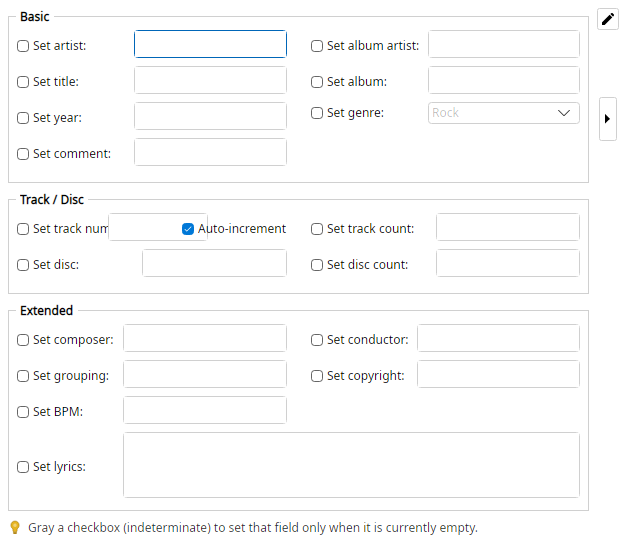
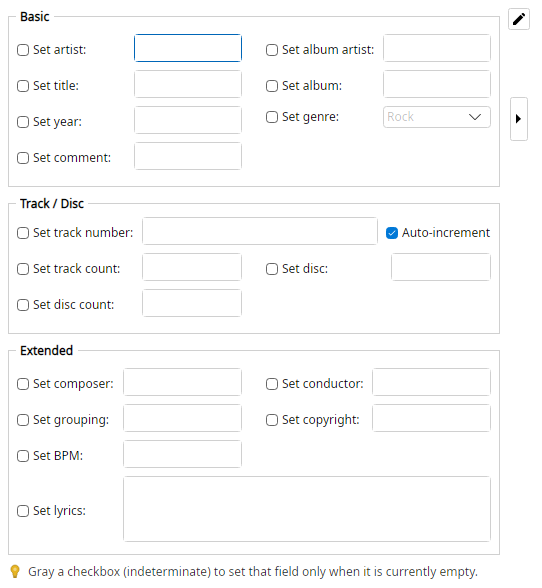
Fix Audio Tag Setter track row crushing Auto-increment.
Lay out the track number + Auto-increment controls on a full-width row
instead of a half-column, update tests, and recapture the help screenshot.

diff --git a/help/filters/audio/AudioTagSetter.html b/help/filters/audio/AudioTagSetter.html
@@ -17,7 +17,7 @@
     <hr />
     <h1>Audio Tag Setter</h1>
     <figure class="screenshot">
-      <img src="../../images/AudioTagSetter.png" alt="Audio Tag Setter options" width="631" height="544" />
+      <img src="../../images/AudioTagSetter.png" alt="Audio Tag Setter options" width="542" height="588" />
       <figcaption>Filter options.</figcaption>
     </figure>
         <p>Sets common embedded audio-tag fields on each file in one step. Values update the preview tags; Apply writes them to the files.</p>

diff --git a/Mfr.Tests/Ui/FilterEditors/Audio/AudioTagSetterFilterEditorViewTests.cs b/Mfr.Tests/Ui/FilterEditors/Audio/AudioTagSetterFilterEditorViewTests.cs
@@ -122,6 +122,42 @@ namespace Mfr.Tests.Ui.FilterEditors.Audio
         }
 
         /// <summary>
+        /// Verifies track value + Auto-increment stay usable on a full-width row (not crushed in a half column).
+        /// </summary>
+        [AvaloniaFact]
+        public void Audio_tag_setter_track_auto_increment_does_not_crush_value_field()
+        {
+            var (window, mainViewModel, editorView) = FilterEditorTestUi.ShowFilterEditorPanes();
+            mainViewModel.FilterChainViewModel.AppendCommand.Execute(FilterChainTestUi.Entry("AudioTagSetter"));
+            window.UpdateLayout();
+            Dispatcher.UIThread.RunJobs();
+
+            var editor = editorView.GetVisualDescendants().OfType<AudioTagSetterFilterEditorView>().Single();
+            var trackEditor = _FindVisibleFieldFormatEditor(editor, AudioTagSetterFieldKind.Track);
+            var autoInc = editor
+                .GetVisualDescendants()
+                .OfType<CompactCheckBox>()
+                .Single(box =>
+                    box.IsVisible && (box.Tag as string) == AudioTagSetterFieldRowViewModel.AutoIncrementTag
+                );
+            var trackCheck = _FindFieldCheckBox(editor, AudioTagSetterFieldKind.Track);
+
+            Assert.True(autoInc.IsChecked);
+            Assert.True(trackEditor.Bounds.Width >= 100, $"track editor width {trackEditor.Bounds.Width}");
+            var trackLabel = trackCheck
+                .GetVisualDescendants()
+                .OfType<TextBlock>()
+                .Single(block => block.Text == "Set track number:");
+            Assert.Equal("Set track number:", trackLabel.Text);
+
+            var trackRight = _LeftInEditor(editor, trackEditor) + trackEditor.Bounds.Width;
+            var autoIncLeft = _LeftInEditor(editor, autoInc);
+            Assert.True(autoIncLeft >= trackRight - 1, $"auto-inc left {autoIncLeft} vs track right {trackRight}");
+
+            window.Close();
+        }
+
+        /// <summary>
         /// Verifies clicking a field label toggles that row’s three-state checkbox.
         /// </summary>
         [AvaloniaFact]

diff --git a/Mfr.App.Ui/ViewModels/FilterEditors/Audio/AudioTagSetterFieldSectionViewModel.cs b/Mfr.App.Ui/ViewModels/FilterEditors/Audio/AudioTagSetterFieldSectionViewModel.cs
@@ -11,22 +11,32 @@ namespace Mfr.App.Ui.ViewModels.FilterEditors.Audio
     )
     {
         /// <summary>
-        /// Gets single-line / combo rows laid out in two columns.
+        /// Gets single-line / combo rows that fit the two-column compact grid (no auto-increment chrome).
         /// </summary>
         public IReadOnlyList<AudioTagSetterFieldRowViewModel> CompactRows { get; } =
-        [.. Rows.Where(row => !row.Multiline)];
+        [.. Rows.Where(row => !row.Multiline && !row.ShowsAutoIncrement)];
+
+        /// <summary>
+        /// Gets single-line rows that need the full fieldset width (track + auto-increment).
+        /// </summary>
+        /// <remarks>
+        /// Kept out of the half-width two-column grid so the value editor is not crushed beside
+        /// <c>Auto-increment</c>.
+        /// </remarks>
+        public IReadOnlyList<AudioTagSetterFieldRowViewModel> WideCompactRows { get; } =
+        [.. Rows.Where(row => !row.Multiline && row.ShowsAutoIncrement)];
 
         /// <summary>
         /// Gets the left column of compact rows (even indexes).
         /// </summary>
         public IReadOnlyList<AudioTagSetterFieldRowViewModel> LeftCompactRows { get; } =
-        [.. Rows.Where(row => !row.Multiline).Where((_, index) => index % 2 == 0)];
+        [.. Rows.Where(row => !row.Multiline && !row.ShowsAutoIncrement).Where((_, index) => index % 2 == 0)];
 
         /// <summary>
         /// Gets the right column of compact rows (odd indexes).
         /// </summary>
         public IReadOnlyList<AudioTagSetterFieldRowViewModel> RightCompactRows { get; } =
-        [.. Rows.Where(row => !row.Multiline).Where((_, index) => index % 2 == 1)];
+        [.. Rows.Where(row => !row.Multiline && !row.ShowsAutoIncrement).Where((_, index) => index % 2 == 1)];
 
         /// <summary>
         /// Gets full-width rows (lyrics) below the two-column grid.

diff --git a/Mfr.Tests/Ui/FilterEditors/Audio/AudioTagSetterFilterEditorViewModelTests.cs b/Mfr.Tests/Ui/FilterEditors/Audio/AudioTagSetterFilterEditorViewModelTests.cs
@@ -167,6 +167,12 @@ namespace Mfr.Tests.Ui.FilterEditors.Audio
             Assert.All(editor.Sections[1].Rows, row => Assert.Equal(AudioTagSetterFieldGroup.TrackDisc, row.Group));
             Assert.All(editor.Sections[2].Rows, row => Assert.Equal(AudioTagSetterFieldGroup.Extended, row.Group));
             Assert.Empty(editor.Sections[0].FullWidthRows);
+            Assert.Empty(editor.Sections[0].WideCompactRows);
+            Assert.Equal([AudioTagSetterFieldKind.Track], editor.Sections[1].WideCompactRows.Select(row => row.Kind));
+            Assert.Equal(
+                [AudioTagSetterFieldKind.TrackCount, AudioTagSetterFieldKind.Disc, AudioTagSetterFieldKind.DiscCount],
+                editor.Sections[1].CompactRows.Select(row => row.Kind)
+            );
             Assert.Equal([AudioTagSetterFieldKind.Lyrics], editor.Sections[2].FullWidthRows.Select(row => row.Kind));
             Assert.Equal(
                 editor.Sections[0].CompactRows.Where((_, i) => i % 2 == 0).Select(r => r.Kind),
